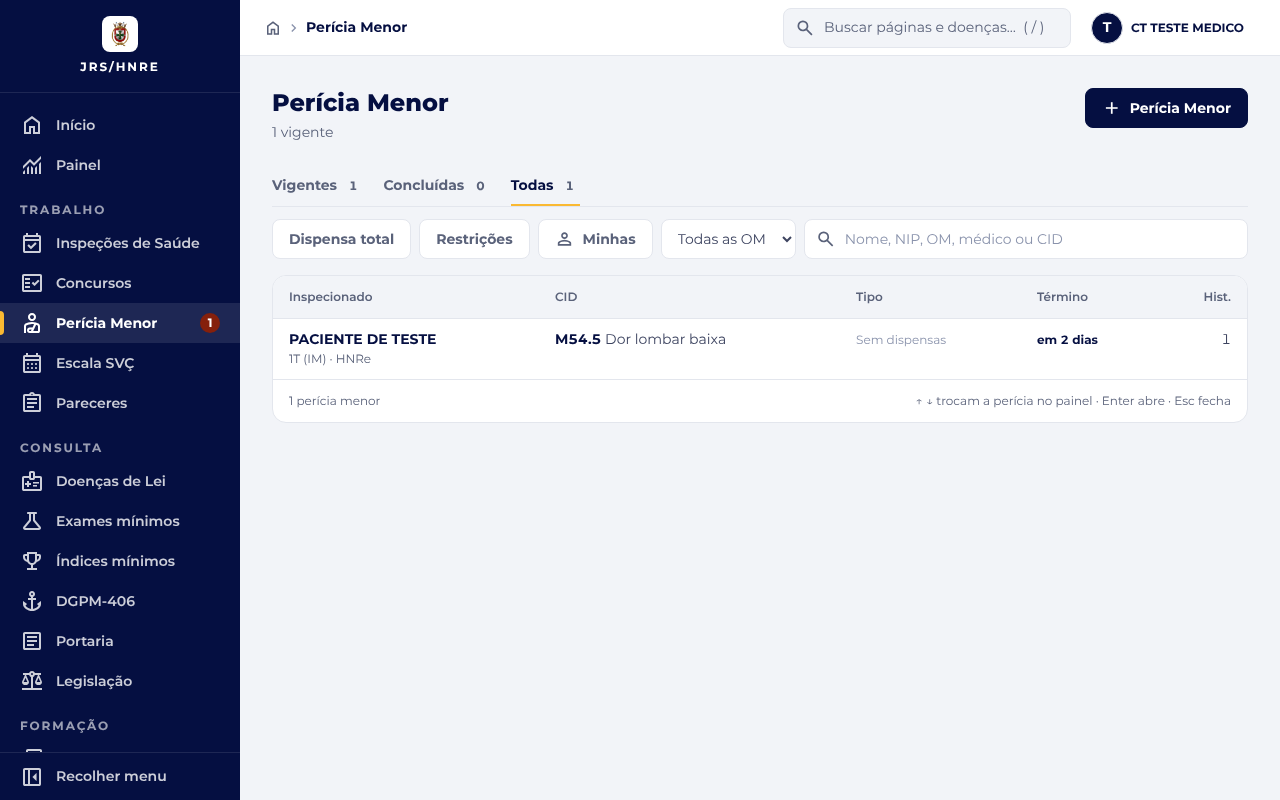
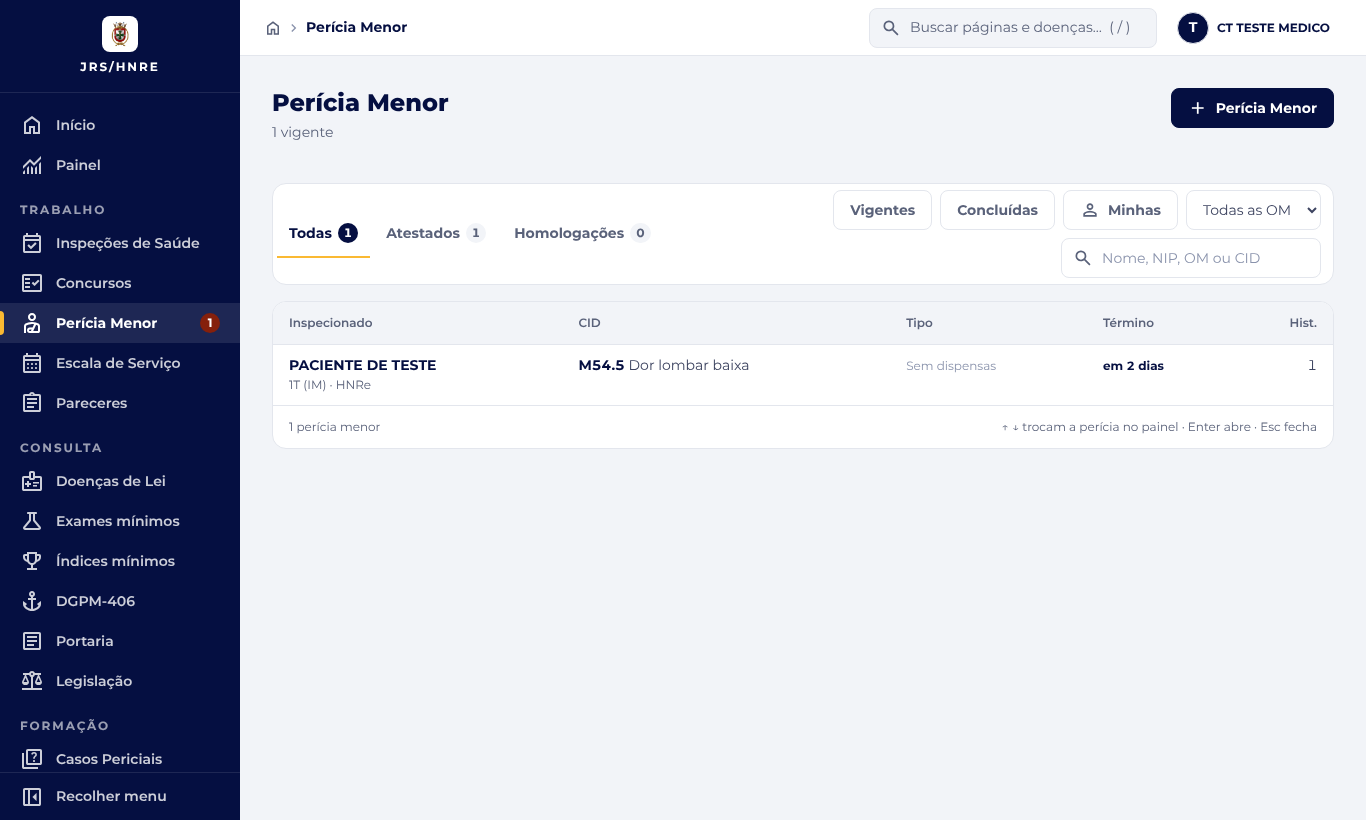
Abas conforme a auditoria (5b/5c/9b/9c): Perícia Menor, painel/sheet da perícia e Ficha do inspecionado
- AbasSublinhadas: item de 48 px (44 no sheet), 14/700, ouro de 3 px sob a ativa, contagem em pílula navy na ativa; no celular as abas dividem a largura (centradas), no sheet/painel sempre; na Ficha cada aba do tamanho do texto com rolagem (4+ abas).
- Perícia Menor (desktop): uma faixa branca com as abas à esquerda e chips + busca à direita (5c); no celular, abas coladas na topbar, chips numa linha rolável e a busca abaixo.
- Painel/sheet da perícia: abas "Esta perícia · Histórico N" de borda a borda, 44 px (5b).
- Ficha do inspecionado: abas sublinhadas no lugar do Segmented (9b/9c), faixa branca de borda a borda no celular, fixa no topo ao rolar.

Claude-Session: https://claude.ai/code/session_01RnQisFLD3iU9kqbELD1jCN

diff --git a/components/PericiaMenor.tsx b/components/PericiaMenor.tsx
@@ -289,10 +289,12 @@ export const PericiaMenor: React.FC = () => {
           </div>
         ) : (
           <>
-            <div className="space-y-3">
+            {/* 5c: no desktop, uma faixa branca com as abas à esquerda e os chips + busca à direita; no celular,
+                abas coladas na topbar (largura dividida), chips numa linha rolável e a busca abaixo. */}
+            <div className="flex flex-col gap-3 md:flex-row md:items-center md:gap-2 md:bg-white md:border md:border-line md:rounded-xl md:pl-1 md:pr-3">
               <AbasSublinhadas<FiltroRegistro>
                 rotulo={`Tipo de registro ${atestado ? 'do atestado' : 'da perícia'}`} idBase="pm-registro" ativa={registro}
-                className="-mx-4 px-4 md:mx-0 md:px-0 bg-white md:bg-transparent"
+                className="-mx-4 px-2 md:mx-0 md:px-0 bg-white md:bg-transparent md:border-b-0 md:shrink-0"
                 onChange={r => definir({ registro: r === 'todas' ? null : r }, true)}
                 abas={[
                   { id: 'todas', rotulo: 'Todas', contagem: totais.todas },
@@ -300,7 +302,8 @@ export const PericiaMenor: React.FC = () => {
                   { id: 'homologacoes', rotulo: 'Homologações', contagem: totais.homologacoes },
                 ]}
               />
-              <div className="flex flex-wrap items-center gap-2">
+              <div className="flex flex-col gap-3 md:flex-1 md:min-w-0 md:flex-row md:flex-wrap md:items-center md:justify-end md:gap-2 md:py-1.5">
+              <div className="flex items-center gap-2 overflow-x-auto -mx-4 px-4 md:mx-0 md:px-0 md:overflow-visible md:flex-wrap md:justify-end">
                 <FilterChip ativo={situacao === 'vigentes'} onAlternar={() => definir({ situacao: situacao === 'vigentes' ? null : 'vigentes' }, true)}>Vigentes</FilterChip>
                 <FilterChip ativo={situacao === 'concluidas'} onAlternar={() => definir({ situacao: situacao === 'concluidas' ? null : 'concluidas' }, true)}>Concluídas</FilterChip>
                 {tipo && <FilterChip ativo onAlternar={() => definir({ tipo: null }, true)}>{tipo === 'dispensa' ? 'Dispensa total' : 'Restrições'}</FilterChip>}
@@ -308,12 +311,13 @@ export const PericiaMenor: React.FC = () => {
                 {anoAtual && <FilterChip ativo icon="calendar_month" onAlternar={() => definir({ ano: null }, true)}>Este ano</FilterChip>}
                 {(podeNovo || minhas) && <FilterChip ativo={minhas} icon="person" onAlternar={() => definir({ minhas: minhas ? null : '1' }, true)}>Minhas</FilterChip>}
                 <label className="sr-only" htmlFor="pm-filtro-om">OM</label>
-                <select id="pm-filtro-om" value={om} onChange={e => definir({ om: e.target.value || null }, true)} className={`${controlClass} !w-auto min-w-[8rem]`}>
+                <select id="pm-filtro-om" value={om} onChange={e => definir({ om: e.target.value || null }, true)} className={`${controlClass} !w-auto min-w-[8rem] shrink-0`}>
                   <option value="">Todas as OM</option>
                   {om && !oms.includes(om) && <option value={om}>{om}</option>}
                   {oms.map(o => <option key={o} value={o}>{o}</option>)}
                 </select>
-                <SearchField value={busca} onChange={setBusca} label={`Buscar ${t.singular}`} placeholder="Nome, NIP, OM, médico ou CID" className="flex-1 min-w-[14rem]" autoComplete="off" />
+              </div>
+              <SearchField value={busca} onChange={setBusca} label={`Buscar ${t.singular}`} placeholder="Nome, NIP, OM ou CID" className="md:w-[220px] xl:w-[260px] md:shrink-0" autoComplete="off" />
               </div>
             </div>
 

diff --git a/components/periciaMenor/partes.tsx b/components/periciaMenor/partes.tsx
@@ -32,9 +32,16 @@ export const CidCodigo: React.FC<{ codigo: string; descricao: string; className?
 
 export interface AbaSublinhada<T extends string> { id: T; rotulo: string; contagem?: number }
 
-/** Abas sublinhadas (ouro = ativa), com setas ← → entre elas. `idBase` liga cada aba ao painel `${idBase}-painel`. */
-export function AbasSublinhadas<T extends string>({ abas, ativa, onChange, rotulo, idBase, className = '' }: {
+/**
+ * Abas sublinhadas (auditoria v3, G2 — mockups 5b/5c/9b/9c): item de 48 px (ou 44 no sheet), 14/700, ouro de 3 px
+ * sob a ativa; contagem em pílula (navy cheia na ativa, cinza nas demais). No celular as abas dividem a largura
+ * em partes iguais, centradas (`distribuir` = 'celular', padrão); 'sempre' faz o mesmo em todas as larguras (sheet
+ * e painel lateral); 'nunca' deixa cada aba do tamanho do texto, com rolagem lateral (Ficha, 4+ abas).
+ * Setas ← → trocam a aba; `idBase` liga cada aba ao painel `${idBase}-painel`.
+ */
+export function AbasSublinhadas<T extends string>({ abas, ativa, onChange, rotulo, idBase, className = '', altura = 'md', distribuir = 'celular' }: {
   abas: AbaSublinhada<T>[]; ativa: T; onChange: (id: T) => void; rotulo: string; idBase: string; className?: string;
+  altura?: 'md' | 'sm'; distribuir?: 'celular' | 'sempre' | 'nunca';
 }) {
   const aoTecla = (e: React.KeyboardEvent<HTMLDivElement>) => {
     const passo = e.key === 'ArrowRight' ? 1 : e.key === 'ArrowLeft' ? -1 : 0;
@@ -45,18 +52,21 @@ export function AbasSublinhadas<T extends string>({ abas, ativa, onChange, rotul
     onChange(prox.id);
     requestAnimationFrame(() => document.getElementById(`${idBase}-aba-${prox.id}`)?.focus());
   };
+  const largura = distribuir === 'sempre' ? 'flex-1 justify-center px-3' : distribuir === 'celular' ? 'flex-1 justify-center px-2 md:px-3 md:flex-none md:justify-start' : 'flex-none px-3';
   return (
-    <div role="tablist" aria-label={rotulo} onKeyDown={aoTecla} className={`flex gap-5 overflow-x-auto border-b border-line ${className}`}>
+    <div role="tablist" aria-label={rotulo} onKeyDown={aoTecla} className={`flex gap-1 overflow-x-auto border-b border-line ${className}`}>
       {abas.map(a => {
         const sel = a.id === ativa;
         return (
           <button
             key={a.id} type="button" role="tab" id={`${idBase}-aba-${a.id}`} aria-selected={sel} aria-controls={`${idBase}-painel`} tabIndex={sel ? 0 : -1}
             onClick={() => onChange(a.id)}
-            className={`shrink-0 inline-flex items-center gap-1.5 min-h-10 text-sm font-bold border-b-[3px] -mb-px transition-colors ${sel ? 'border-gold text-navy' : 'border-transparent text-ink-3 hover:text-navy'}`}
+            className={`${largura} ${altura === 'sm' ? 'h-11' : 'h-12'} shrink-0 inline-flex items-center gap-1.5 text-sm font-bold whitespace-nowrap border-b-[3px] -mb-px transition-colors focus-visible:outline focus-visible:outline-2 focus-visible:-outline-offset-2 focus-visible:outline-gold ${sel ? 'border-gold text-navy' : 'border-transparent text-ink-3 hover:text-navy'}`}
           >
             {a.rotulo}
-            {a.contagem !== undefined && <span className="min-w-5 h-5 px-1.5 rounded-full bg-thead text-ink-3 text-xs inline-flex items-center justify-center tabular-nums">{a.contagem}</span>}
+            {a.contagem !== undefined && (
+              <span className={`min-w-5 h-5 px-1.5 rounded-full text-xs font-bold inline-flex items-center justify-center tabular-nums ${sel ? 'bg-navy text-white' : 'bg-thead text-ink-3'}`}>{a.contagem}</span>
+            )}
           </button>
         );
       })}

diff --git a/components/ficha/FichaInspecionado.tsx b/components/ficha/FichaInspecionado.tsx
@@ -2,7 +2,7 @@
 // Ficha do inspecionado (/inspecionados/:nip — auditoria v3, seção 9; MF1–MF4, PM6, PM8, PMD3).
 // Uma página com o que o perfil pode ver (components/ficha/permissoes.ts — sem abas fantasmas):
 //   cabeçalho (o nome abre o top sheet com os dados cadastrais; ⋮ com "Registro de eventos" só do Admin) ·
-//   guias "Inspeções de Saúde" × "Perícias Menores" (Segmented, fixas no topo ao rolar) · Situação atual ·
+//   guias "Inspeções de Saúde" × "Perícias Menores" (abas sublinhadas, fixas no topo ao rolar) · Situação atual ·
 //   coluna principal (8): faixa dos últimos 12 meses com os períodos da guia (LTS/Restrições nas IS,
 //   Dispensa/Restrições nas perícias) e a linha do tempo da guia · coluna de apoio (4):
 //     - IS: resumo do ano (IS, dias de LTS e de Restrições), atestados/relatórios médicos e exames enviados
@@ -20,7 +20,7 @@ import { Container } from '../ui/Page';
 import { Card } from '../ui/Card';
 import { Button } from '../ui/Button';
 import { MenuAcoes, type ItemMenu } from '../ui/MenuAcoes';
-import { Segmented } from '../ui/Segmented';
+import { AbasSublinhadas } from '../periciaMenor/partes';
 import { StatusTag } from '../ui/StatusTag';
 import { EmptyState } from '../ui/EmptyState';
 import { AccessDenied } from '../ui/AccessDenied';
@@ -550,11 +550,12 @@ export const FichaInspecionado: React.FC = () => {
         {principal && <FabAcoes acoes={[{ id: principal.id, rotulo: principal.rotulo, icone: principal.icone, onClick: principal.onClick }]} />}
 
         {opcoesGuia.length > 1 && (
-          <div className="sticky top-0 z-sticky -mx-4 md:-mx-6 xl:-mx-8 px-4 md:px-6 xl:px-8 py-2 bg-canvas border-b border-line print:static">
-            <div className="overflow-x-auto -mx-1 px-1">
-              <Segmented<GuiaFicha> papel="tab" idBase="ficha-guia" ariaLabel="Registros do inspecionado" options={opcoesGuia} value={guia}
-                onChange={g => definir({ guia: g })} className="min-w-full sm:min-w-0" fullWidth={!isDesktop} />
-            </div>
+          // 9b/9c: abas sublinhadas (ouro = ativa) com a contagem; no celular, faixa branca de borda a borda.
+          <div className="sticky top-0 z-sticky -mx-4 md:-mx-6 xl:-mx-8 px-4 md:px-6 xl:px-8 bg-white md:bg-canvas print:static">
+            <AbasSublinhadas<GuiaFicha>
+              rotulo="Registros do inspecionado" idBase="ficha-guia" ativa={guia} onChange={g => definir({ guia: g })} distribuir="nunca"
+              abas={opcoesGuia.map(o => ({ id: o.value, rotulo: o.label, contagem: o.badge }))}
+            />
           </div>
         )}
 

diff --git a/components/periciaMenor/PericiaMenorPainel.tsx b/components/periciaMenor/PericiaMenorPainel.tsx
@@ -186,6 +186,7 @@ export const PericiaMenorPainel: React.FC<Props> = ({ pericia: p, historico, hoj
   const abas = (
     <AbasSublinhadas<AbaPericia>
       rotulo={`Detalhe ${atestado ? 'do atestado' : 'da perícia'}`} idBase={idBase} ativa={aba} onChange={onAba}
+      altura="sm" distribuir="sempre" className="-mx-5"
       abas={[{ id: 'esta', rotulo: atestado ? 'Este atestado' : 'Esta perícia' }, { id: 'historico', rotulo: 'Histórico', contagem: historico.length }]}
     />
   );
